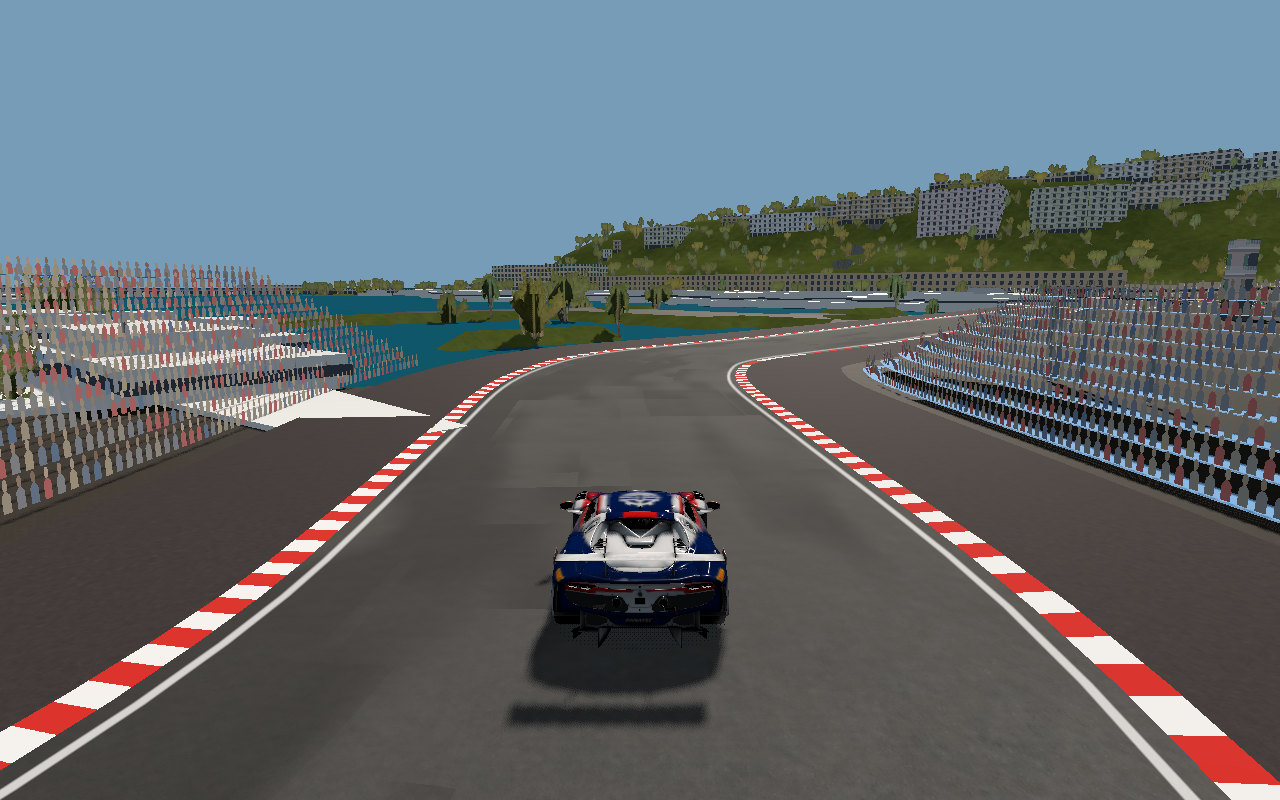
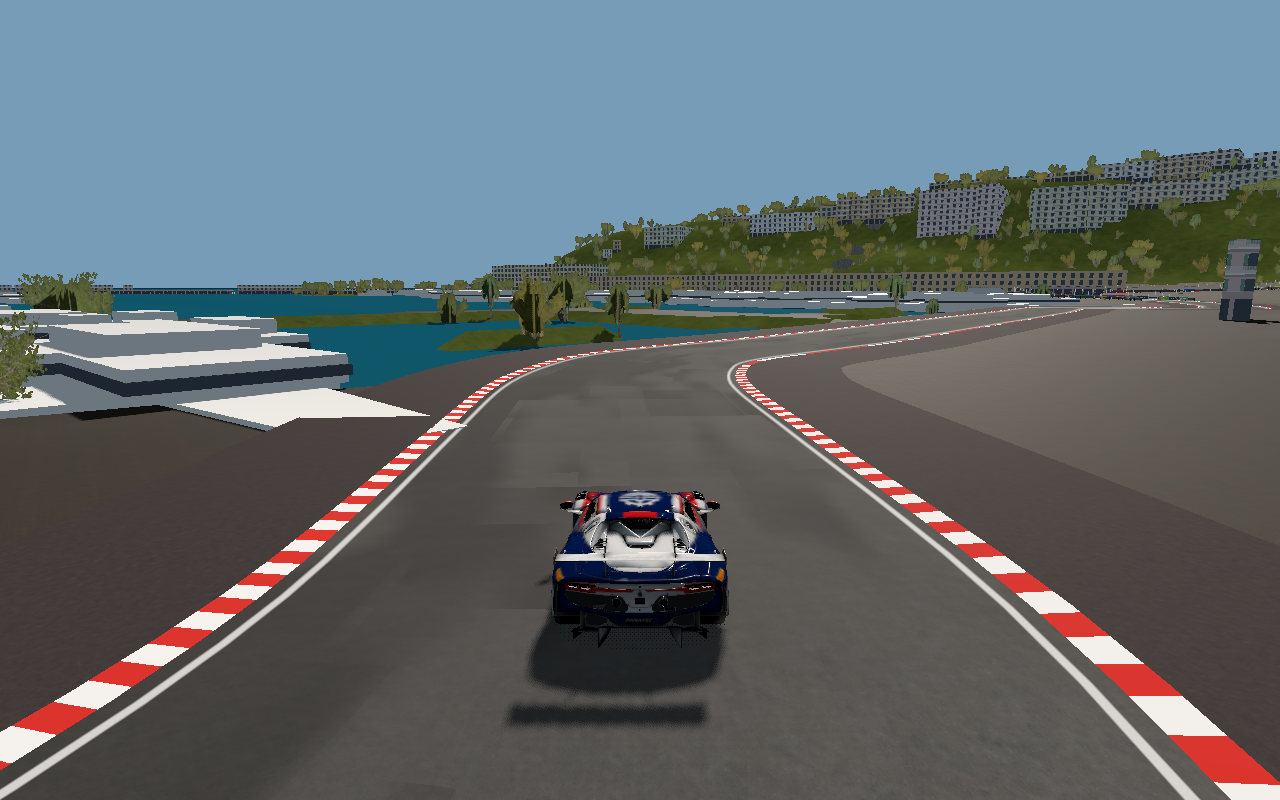
Open Monaco Swimming Pool chicanes

Changed region(s): [[0.6562, 0.3438, 1.0, 0.6875], [0.0, 0.3125, 0.3438, 0.6562]]

diff --git a/godot/docs/REBUILD-LOG.md b/godot/docs/REBUILD-LOG.md
@@ -2938,3 +2938,8 @@ References: Commons "Circuit de Monaco - Virage de la Piscine", "- Sortie du vir
 - The previous 45 km/h lock-angle check was too indirect: the formula bot's speed plan bottomed at 3.6 m/s (13 km/h) at Fairmont with the 22 deg setup. Raised only F2004/RB19 maximum steering lock to 26 deg; 28 deg added no measured minimum speed, so kept the smaller change. Existing 60 m/s falloff remains.
 - Lap gates measure BotDriver minimum speed within 35 m of the hairpin apex and require at least 6.8 m/s (24.5 km/h). All four Formula x handling-mode laps remain clean: F2004 minimums 31/25 km/h, RB19 32/30 km/h. The RB19 was 20 km/h at the former 22 deg setting. RB19 baselines now read 133.746/128.629 s after the intentional 2.7% Simcade improvement. Reference: [F1 2020 Monaco gameplay](https://www.jeuxvideo.com/videos/1227175/f1-2020-vous-emmene-sur-les-circuits-de-monaco.htm) displays 21.8 km/h at the hairpin; [F1's onboard reel](https://www.formula1.com/en/video/top-10-onboard-moments-2024-monaco-grand-prix.1800311554004939373) shows the real corner approach.
 - **Validation:** `run_gates.ps1 -All -Perf -Timeout 600`: 48/48 PASS, 0 failures, 281 s (logs `tests/logs/gates/20260929-214818/`). Formula lap cases, full project suite, and six serial performance gates pass; `git diff --check` passes. Full controller/keyboard play has not been directly exercised.
+
+## 2026-09-29 Swimming Pool wall follow-up (Codex)
+- Removed the two temporary Pool-side grandstand structures, which were still reading as continuous walls in the focused in-game view. Extended the mapped wall/fence-free span 70 m beyond the Rascasse-side exit while keeping the Tabac-side boundary at its mapped entry; a 70 m entry buffer failed the Tabac barrier regression, so it was reverted.
+- Added a regression that checks the Rascasse barrier as well as the Tabac barrier, kept the full-gap wall-layer rays, bumped Monaco track version to 4, and refreshed the windowed Pool screenshot.
+- **Validation:** `run_gates.ps1 -Only monaco,parse -Timeout 120`: 2/2 PASS, 18 Monaco checks (logs `tests/logs/gates/20260929-221340/`). `run_gates.ps1 -Only monaco,scenery,parse -Timeout 120`: 3/3 PASS before the final asymmetric boundary adjustment. Vulkan capture succeeded. The earlier full 48-gate run predates this scenery-only follow-up.

diff --git a/godot/trackgen/data/monaco/README.md b/godot/trackgen/data/monaco/README.md
@@ -31,10 +31,9 @@ The Grand Prix lap on the real streets, built offline by `trackgen/monaco.gd` fr
 
 - The DSM is 30 m and includes rooftops. The smoothed profile has about 45 m of elevation range;
   local heights and slopes are authored approximations, not surveyed ground truth.
-- Track version 3 uses the mapped raceway entry/exit to open both Swimming Pool chicanes, with 4 m
-  paved escape bands. The Tabac approach retains its barriers. Pool stands use open supports and
-  alpha-cut spectator silhouettes instead of solid back/end/riser walls and opaque noise cards; they
-  now sit 1 m beyond the verge to reduce the empty apron between the track and seating.
+- Track version 4 uses the mapped raceway entry/exit plus 12 m at the Tabac entry and 70 m at the
+  Rascasse exit to open both Swimming Pool chicanes, with 4 m paved escape bands. The Pool-side
+  stands are omitted; the Tabac approach and Rascasse retain their barriers and stands.
 - Road widths and kerbs are authored per corner from the published layout, not surveyed.
 - Buildings are extruded footprints with a shared facade shader; no landmark models (Casino, Hotel de Paris).
 - Formula presets use 26° maximum front-wheel lock plus a 60 m/s speed falloff. Formula Monaco lap gates
